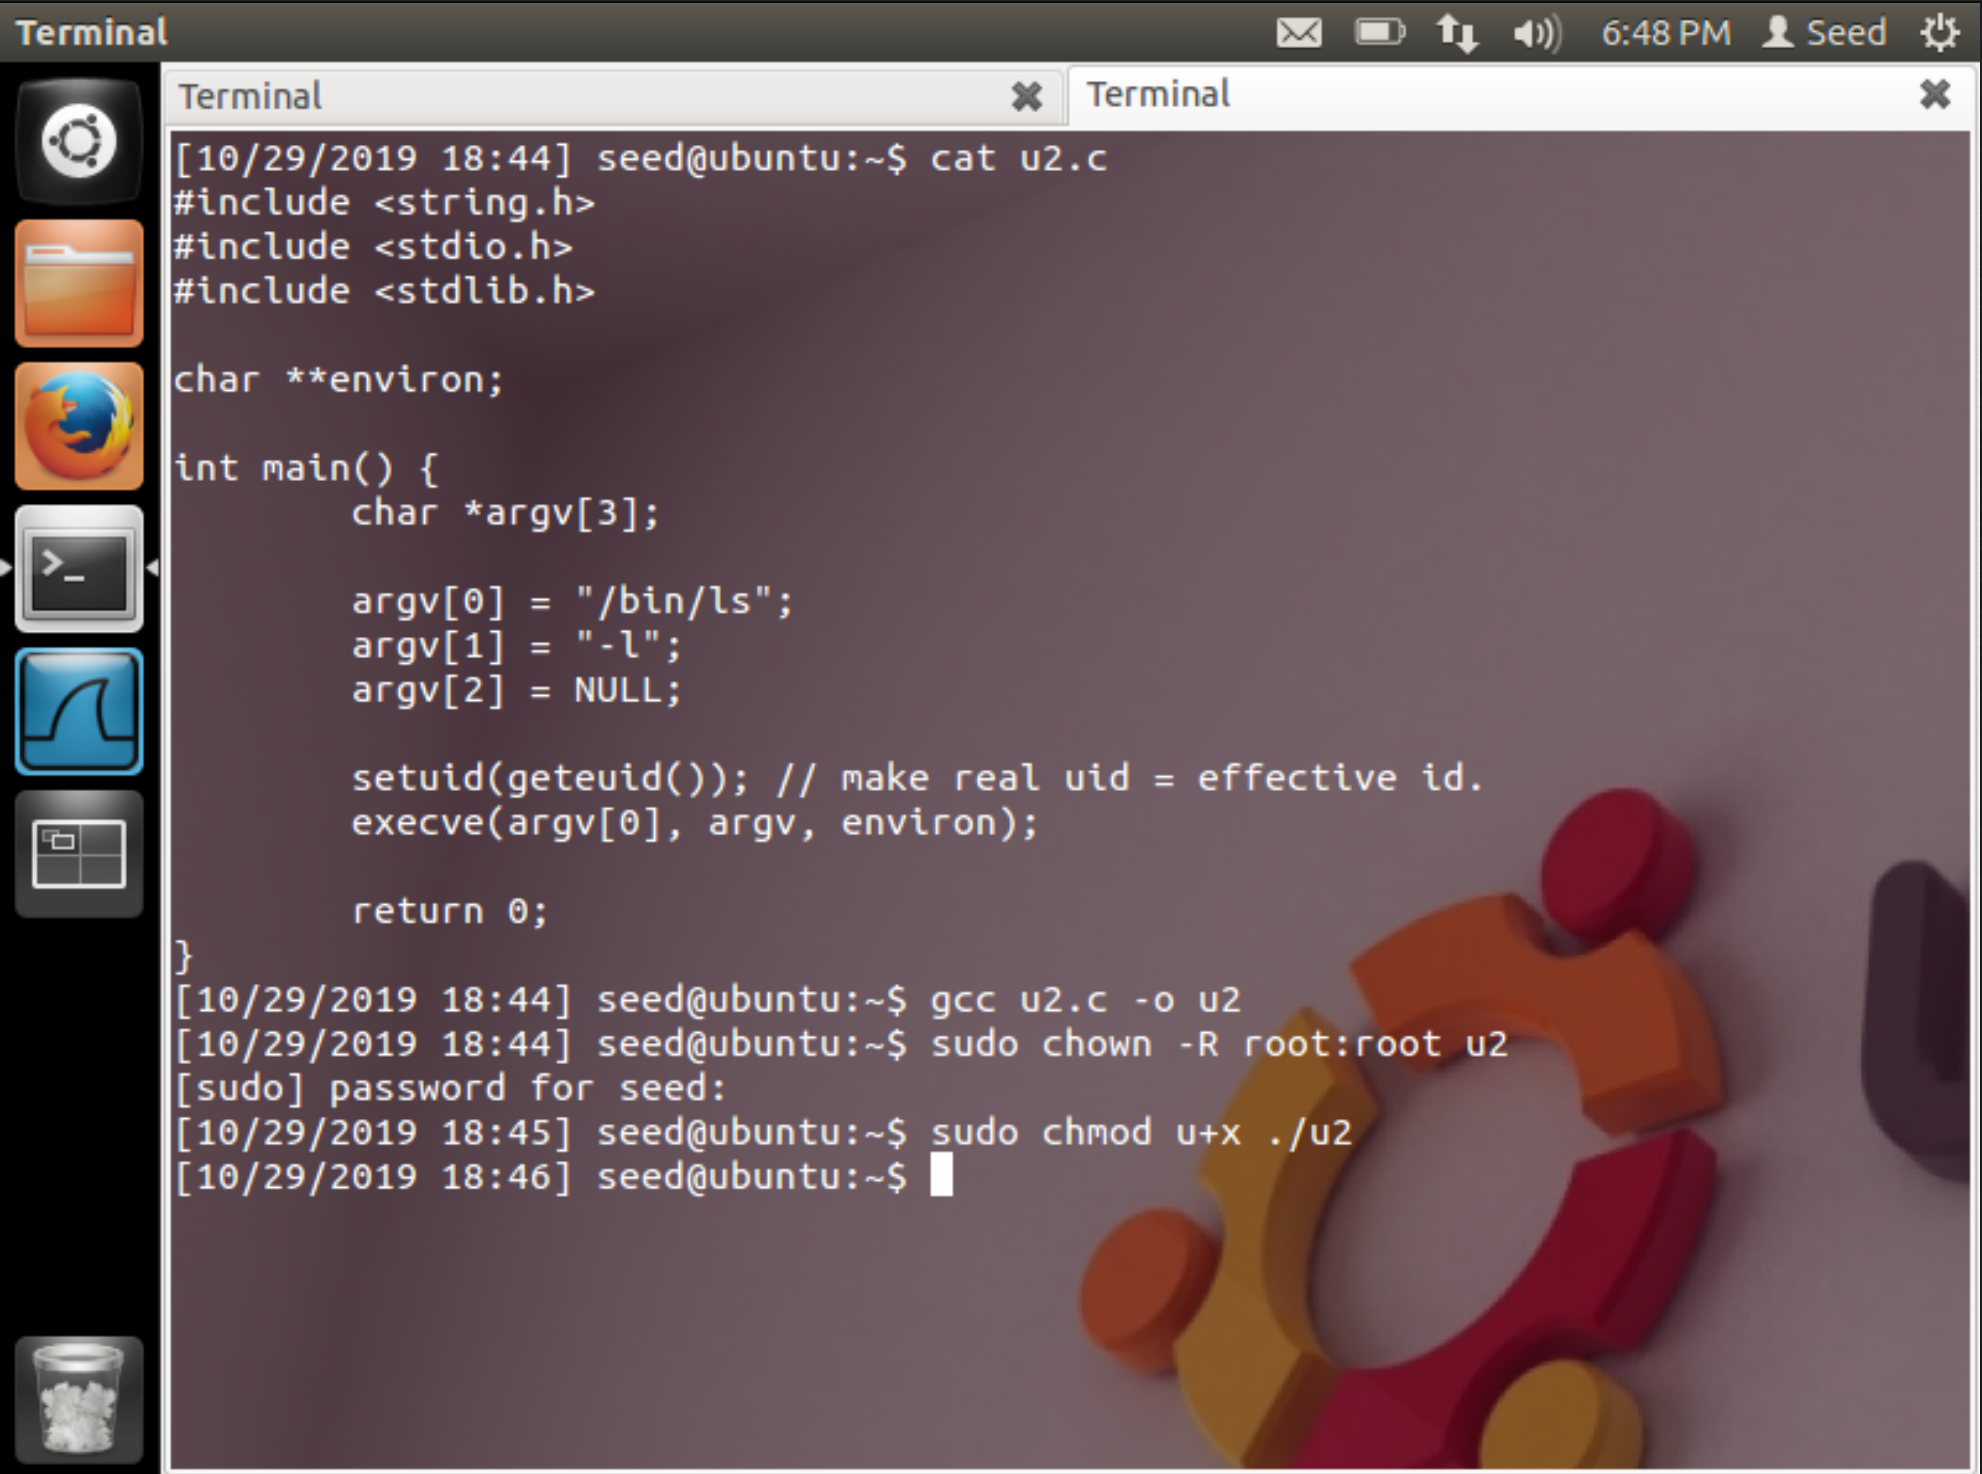
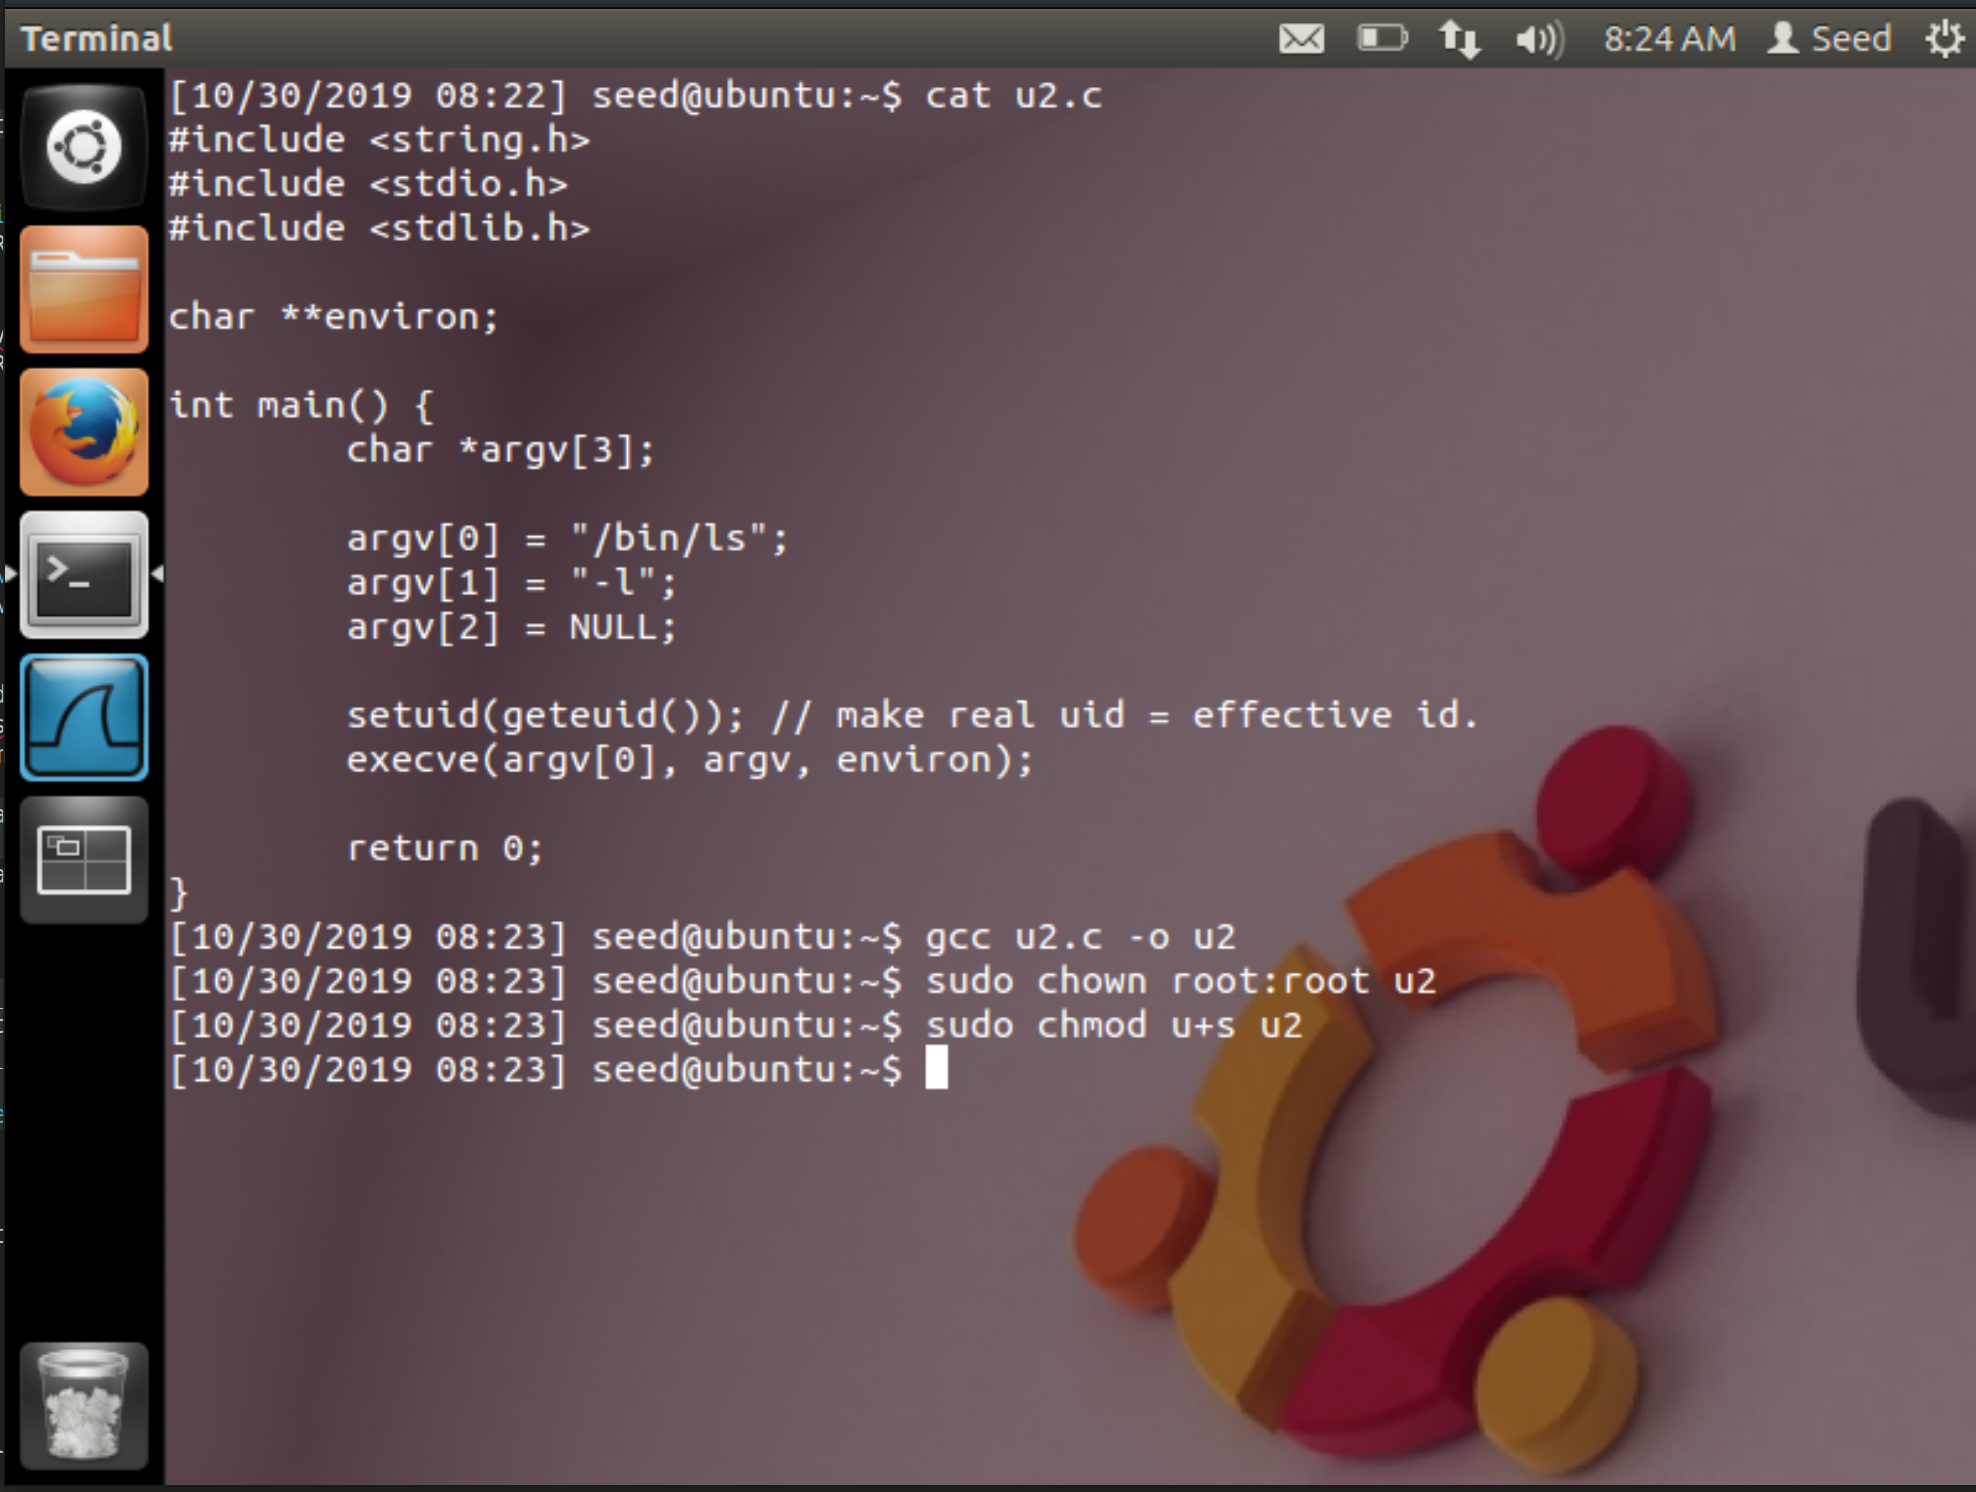
more work on the extra credit lab.

Changed region(s): [[0.0, 0.0, 1.0, 1.0]]

diff --git a/Extra-Credit-Lab/README.md b/Extra-Credit-Lab/README.md
@@ -118,18 +118,18 @@ Following down the code we see we see two calls to `strcpy()`. The extra command
   strcpy (temp_string, name);
   temp_string[char_index] = ' ';
   strcpy (temp_string + char_index + 1, string);
-
+  // SHELL SHOCK !
   parse_and_execute (temp_string, name, SEVAL_NONINT|SEVAL_NOHIST);
 ```
 
 
-Please pinpoint exactly which line causes the difference, and explain why Bash does that.
+Explain why Bash does that.
 
 
 
 
 ### Task 2C  
-Another way to invoke a program in C is to use `execve()`, instead of `system()`. The following program does exactly what the program in Task 2A does. We compile the code, make it a Set-UID program that is owned by root, and launch our Shellshock attack on this new program.
+Another way to invoke a program in C is to use `execve()`, instead of `system()`. The following program does exactly what the program in Task 2A does. We compile the code, make it a Set-UID program that is owned by root.
 
 ```c
 #include <string.h>
@@ -150,10 +150,21 @@ int main() {
    
     return 0 ;
 }
-```
+```  
 
-![create_setuid_program](./images/writeup/create_setuid_program.png)  
-**Figure 10:** Create Set-UID program that uses `execve()`.
+![2c_create_setuid_program](./writeup/images/2c_create_setuid_program.png)  
+**Figure 10:** Create Set-UID program that uses `execve()`.  
+
+
+Now, when launch our Shellshock attack on this new program.  
+![2c_results](./writeup/images/2c_results.png)  
+**Figure 11:** Attack does not work through `execve()` function.  
+
+
+We see from Figure 11 above that the attack is not effective on this source code. This is because `system()` will call the shell, in this case we've set it to `/bin/bash` where we know our Shellshock vulnerability is. The `execve()` function does not use the shell. [The function definition](https://pubs.opengroup.org/onlinepubs/9699919799/functions/execve.html) for `execve()` states, 
+>The exec family of functions shall replace the current process image with a new process image. The new image shall be constructed from a regular, executable file called the new process image file. There shall be no return from a successful exec, because the calling process image is overlaid by the new process image.
+
+Since we replaced `system()` with `execve()`, we're not able to exploit the vulnerability in `/bin/bash` for Task 2C as we were in 2A.
 
 
 ## Task 3: Questions
@@ -163,12 +174,18 @@ This is a writing task, please answer the following questions in your report:
 
 2. What is the fundamental problem of the Shellshock vulnerability? What can we learn from this
 vulnerability?
+* Very important and wide spread pieces of software can still have undiscovered vulnerabilities with catastrophic consequences.
+* Not all remote code execution exploits have complicated payloads, Shellshock is short enough that I remember it by now just after this lab.
+* The `system()` command can cause problems, as shell behavior depends on the user who run the command.
+* Use `execve()` in place of `system()` whenever possible. 
 
 
 # References
 
 1. [CVE-2014-6271](https://nvd.nist.gov/vuln/detail/CVE-2014-6271)
-2. [OWASP Shellshock](https://www.owasp.org/images/1/1b/Shellshock_-_Tudor_Enache.pdf)
-3. [GitHub Repo by OPSXCQ](https://github.com/opsxcq/exploit-CVE-2014-6271)
-4. [Security Stack Exchange](https://security.stackexchange.com/questions/68448/where-is-bash-shellshock-vulnerability-in-source-code)
-5. [Stack Overflow](https://stackoverflow.com/questions/26022248/is-the-behavior-behind-the-shellshock-vulnerability-in-bash-documented-or-at-all)
+2. [OWASP: Shellshock](https://www.owasp.org/images/1/1b/Shellshock_-_Tudor_Enache.pdf)
+3. [GitHub: Repo by OPSXCQ](https://github.com/opsxcq/exploit-CVE-2014-6271)
+4. [Security Stack Exchange: Shell Shock Vulnerability in Source Code](https://security.stackexchange.com/questions/68448/where-is-bash-shellshock-vulnerability-in-source-code)
+5. [Stack Overflow: Shellshock Behavior](https://stackoverflow.com/questions/26022248/is-the-behavior-behind-the-shellshock-vulnerability-in-bash-documented-or-at-all)
+6. [Stack Overflow: system() vs execve()](https://stackoverflow.com/questions/27461936/system-vs-execve)
+7. [Open Group: execve()](https://pubs.opengroup.org/onlinepubs/9699919799/functions/execve.html)
